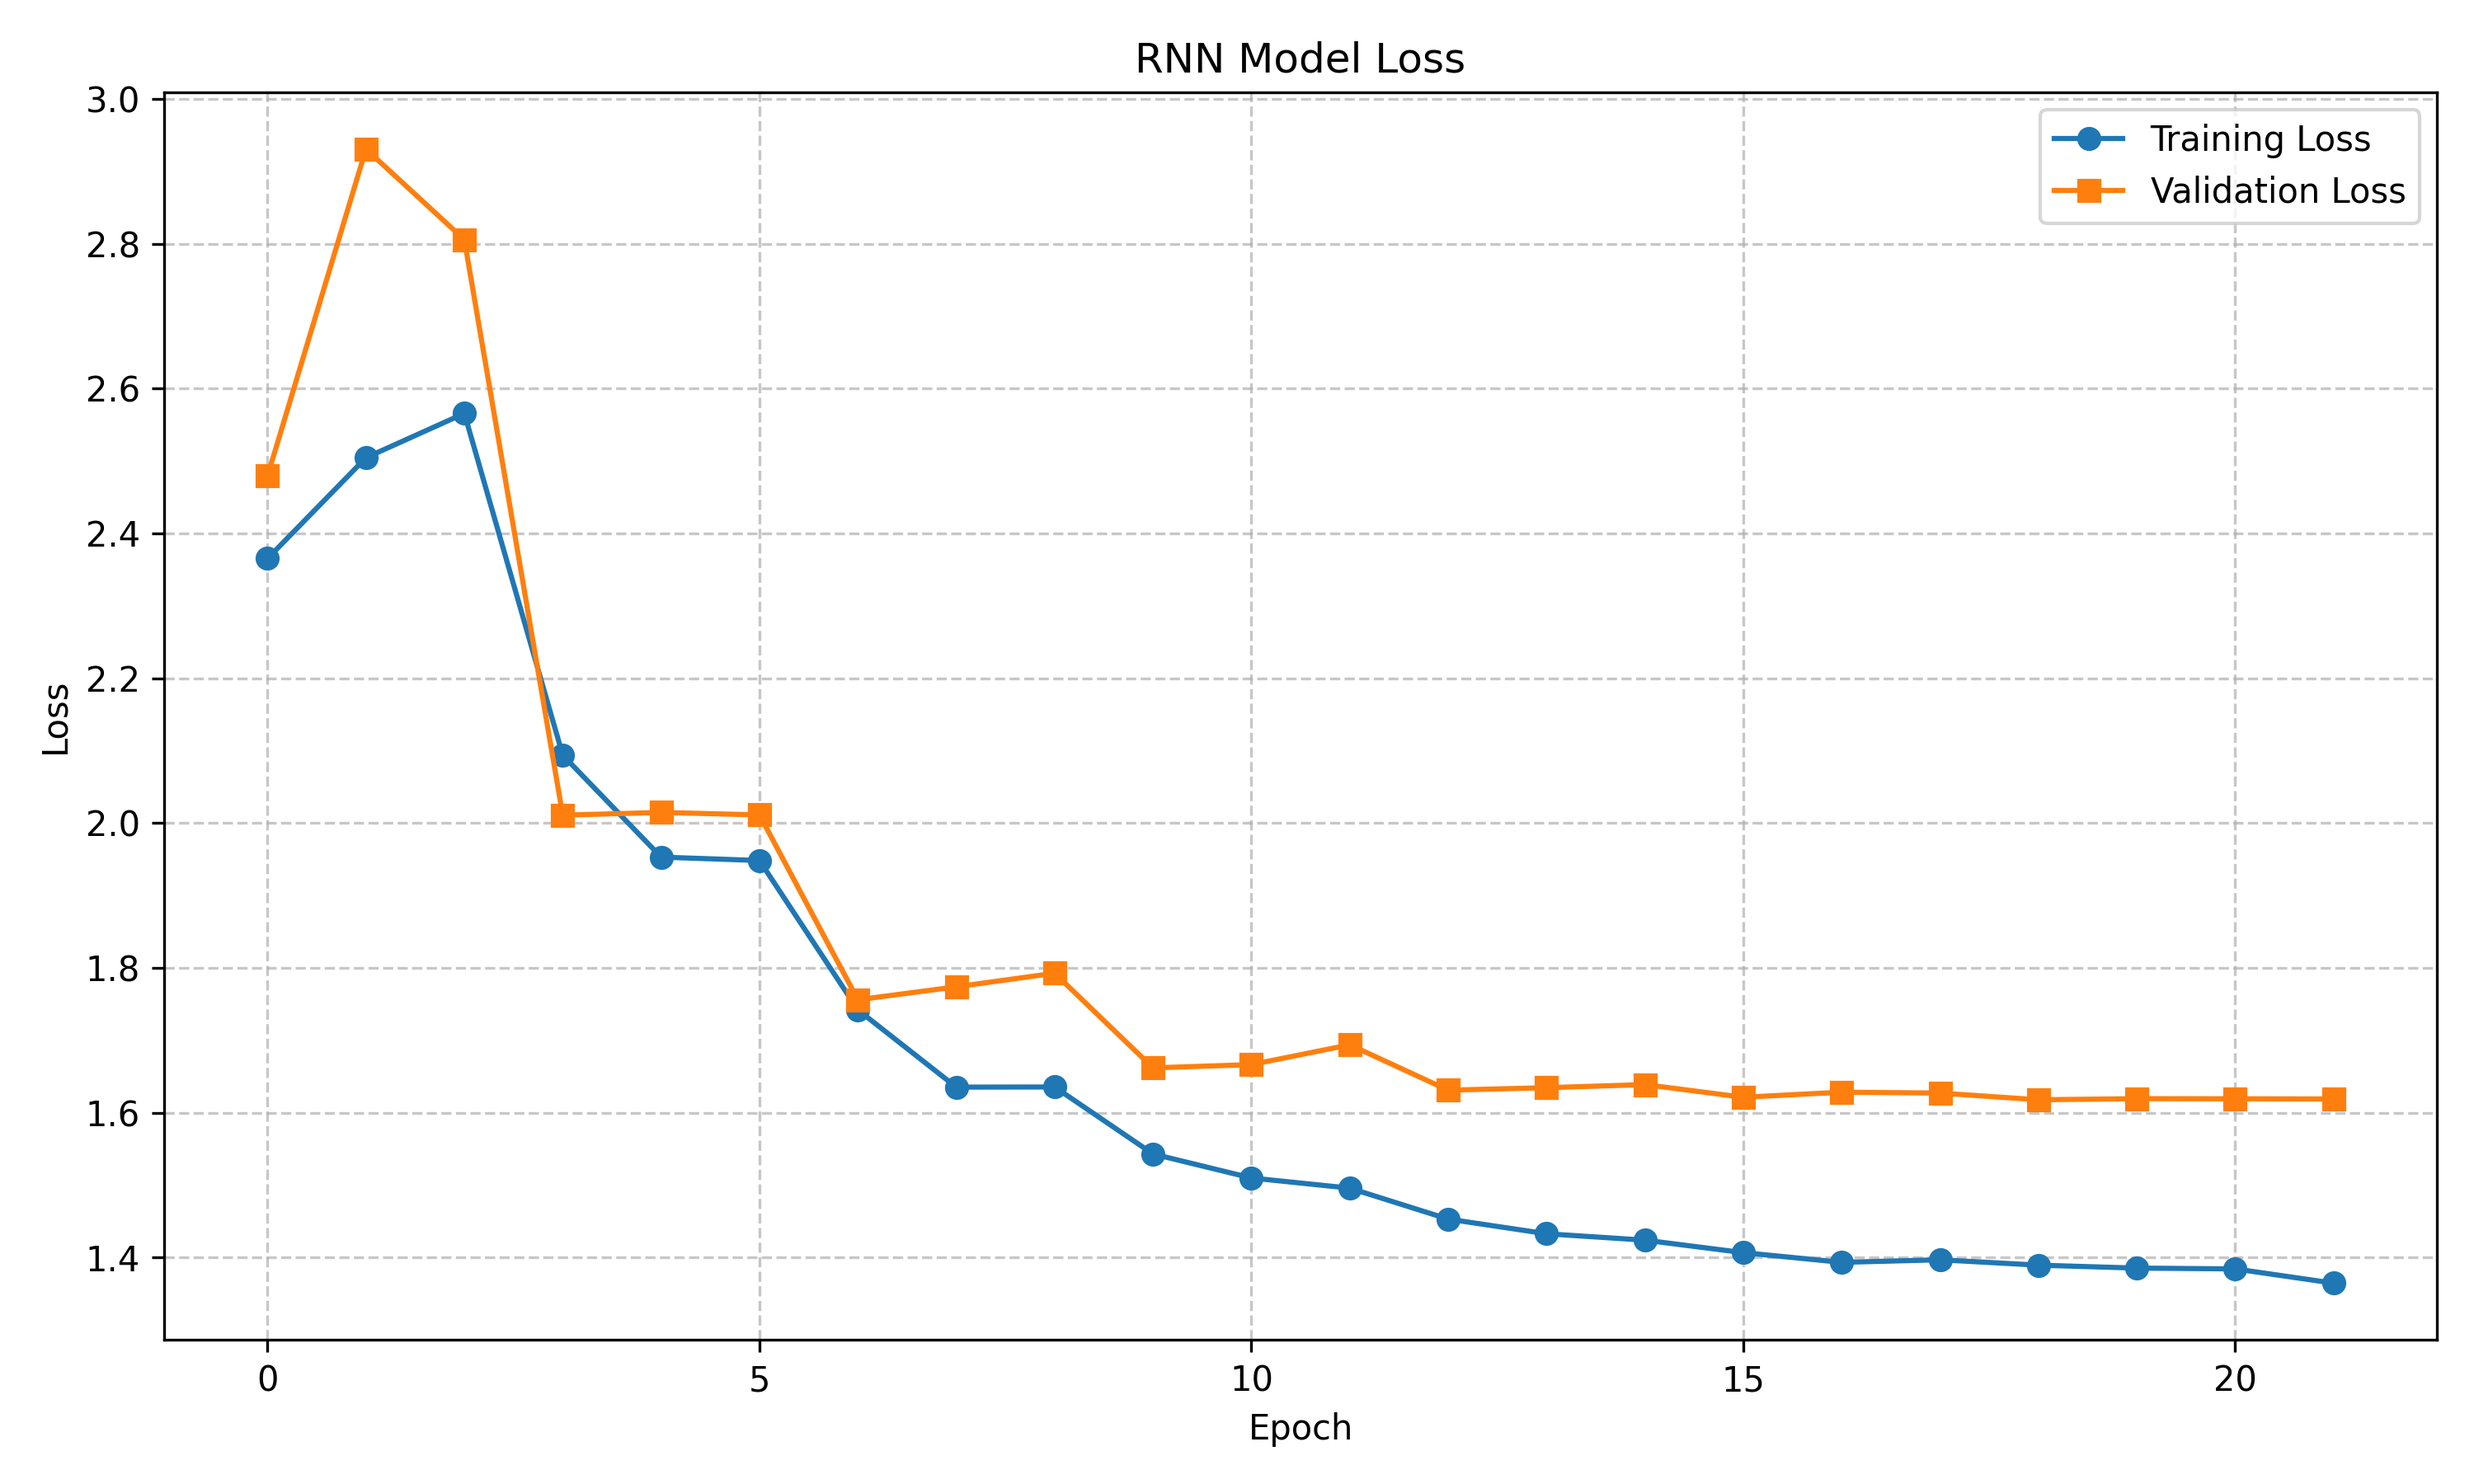
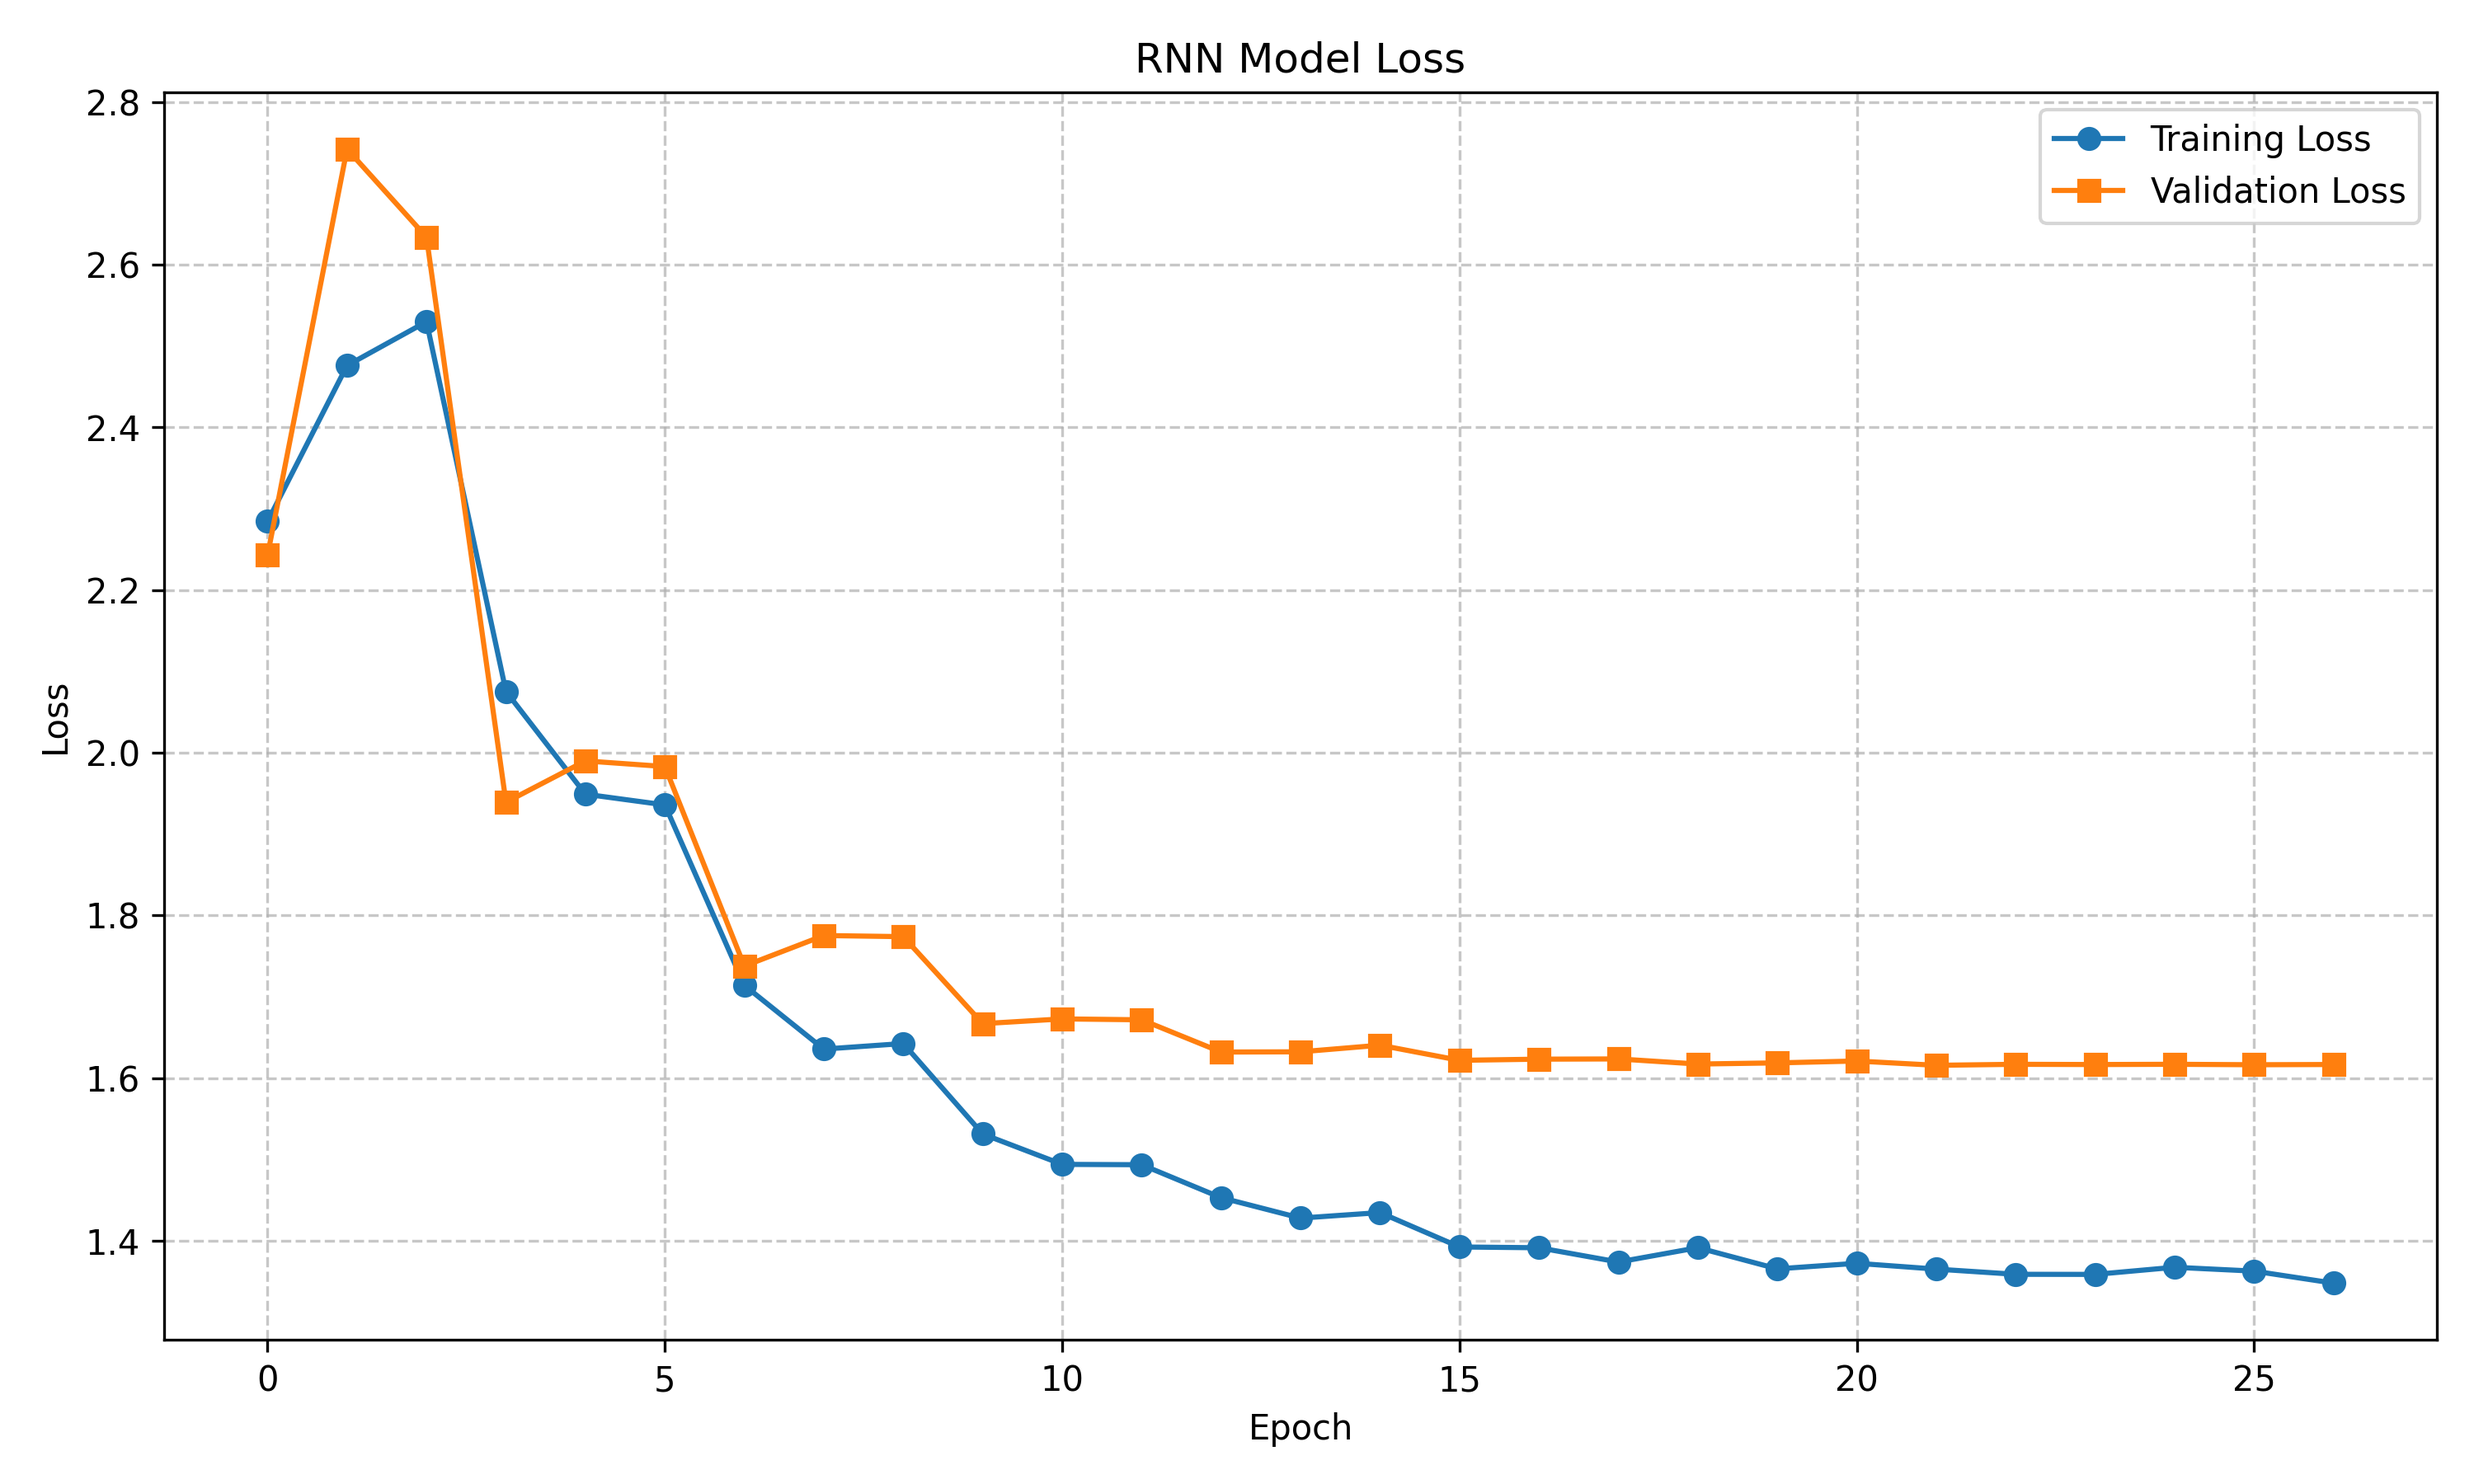
Debugging...

diff --git a/src/models/rnn_model.py b/src/models/rnn_model.py
@@ -108,33 +108,48 @@ class RNNModel(BaseTextGenerationModel):
         # Store generated tokens
         generated_ids = []
 
-        # Generate tokens auto regressively
+        # Generate tokens autoregressively
         with torch.no_grad():
             # First, process the entire prompt
             logits, hidden, _ = self.forward(input_ids, hidden, temperature)
-
+            
             # Then generate tokens one by one
             for i in range(max_seq_length):
-                # Get the next token prediction from the last position
-                next_token_id = torch.argmax(logits[:, -1, :], dim=-1).item()
+                # Get probability distribution
+                probs = torch.softmax(logits[0, -1, :], dim=-1)
+                
+                # Set probability of padding token to zero to avoid generating it
+                probs[0] = 0
+                
+                # Renormalize probabilities
+                probs = probs / probs.sum()
+                
+                # Sample from the modified distribution
+                next_token_id = torch.multinomial(probs, 1).item()
+                
                 generated_ids.append(next_token_id)
-
-                print(f"Generated token {i}: ID={next_token_id}")
-
+                
+                print(f"Generated token {i}: ID={next_token_id}, Text='{tokenizer.IdToPiece(next_token_id)}'")
+                
                 # Check for EOS token
                 if next_token_id == tokenizer.eos_id():
                     print("EOS token generated, stopping generation")
                     break
-
-                # Prepare next input - THIS IS THE FIXED PART
+                
+                # Prepare next input
                 next_input = torch.tensor([[next_token_id]], dtype=torch.long).to(device)
-
+                
                 # Forward pass with the new token
                 logits, hidden, _ = self.forward(next_input, hidden, temperature)
-
+    
         # Decode the generated tokens
-        print(f"Generated IDs: {generated_ids}")
-        generated_text = tokenizer.decode(generated_ids)
-        print(f"Decoded text: '{generated_text}'")
+        try:
+            generated_text = tokenizer.decode(generated_ids)
+            print(f"Decoded text: '{generated_text}'")
+        except Exception as e:
+            print(f"Error decoding: {e}")
+            # Try piece by piece
+            generated_text = ''.join([tokenizer.IdToPiece(id) for id in generated_ids])
+            print(f"Piece by piece decoding: '{generated_text}'")
 
         return generated_text

diff --git a/config.py b/config.py
@@ -19,7 +19,7 @@ DEVICE = torch.device("cuda" if torch.cuda.is_available() else "cpu")
 # Data preprocessing
 VOCAB_SIZE = 10000
 MAX_SEQ_LENGTH = 512
-TRAIN_VAL_SPLIT = 0.1  # 10% of training data used for validation
+TRAIN_VAL_SPLIT = 0.2  # 10% of training data used for validation
 
 # Model parameters
 EMBEDDING_DIM = 256
@@ -34,13 +34,13 @@ DROPOUT = 0.2
 BATCH_SIZE = 128
 NUM_EPOCHS = 30
 LEARNING_RATE = 0.01
-EARLY_STOPPING_PATIENCE = 3
+EARLY_STOPPING_PATIENCE = 5
 LR_SCHEDULER_FACTOR = 0.5
 LR_SCHEDULER_PATIENCE = 1
 
 # Generation parameters
 DEFAULT_MAX_GEN_LENGTH = 100
-DEFAULT_TEMPERATURE = 1.0
+DEFAULT_TEMPERATURE = 0.8
 
 # Random seeds for reproducibility
 RANDOM_SEED = 42
